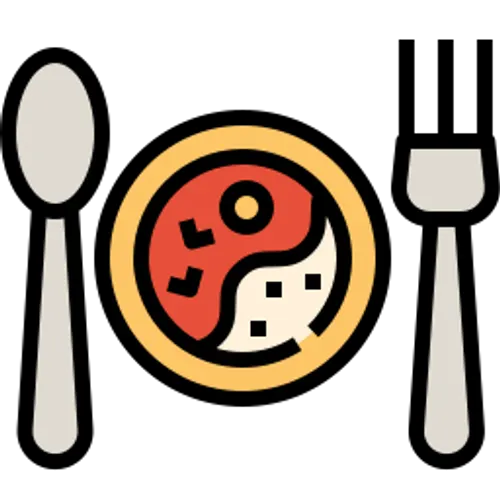
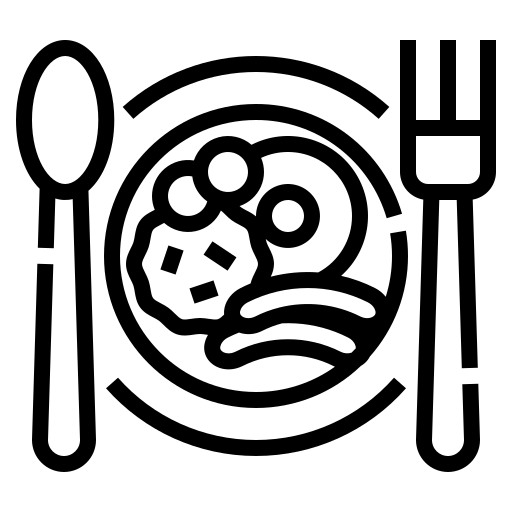
favourive child logic added

diff --git a/src/pages/DoctorDetailPage.tsx b/src/pages/DoctorDetailPage.tsx
@@ -17,11 +17,18 @@ export default function DoctorDetailPage() {
   const [loadingSlots, setLoadingSlots] = useState(false);
   const [errorMsg, setErrorMsg] = useState('');
   const [confirmed, setConfirmed] = useState(false);
+  const [hasFavoriteChild, setHasFavoriteChild] = useState(true); // ✅ Track child presence
   const navigate = useNavigate();
 
   useEffect(() => {
     fetchDoctorInfo();
     fetchAvailability();
+
+    // ✅ Check if favorite child is set
+    const favoriteChildId = localStorage.getItem('favorite_child_id');
+    if (!favoriteChildId) {
+      setHasFavoriteChild(false);
+    }
   }, [doctorId]);
 
   const fetchDoctorInfo = async () => {
@@ -46,8 +53,9 @@ export default function DoctorDetailPage() {
   };
 
   const bookSlot = async () => {
-    if (!selectedSlot) {
-      setErrorMsg(t('Please select a slot.'));
+    const favoriteChildId = localStorage.getItem('favorite_child_id');
+    if (!selectedSlot || !favoriteChildId) {
+      setErrorMsg(t('Please select a slot and ensure child is added.'));
       return;
     }
 
@@ -56,6 +64,7 @@ export default function DoctorDetailPage() {
         parentId: telegramuser?.id,
         expertId: doctorId,
         slotId: selectedSlot,
+        childId: favoriteChildId,
       });
       navigate(`/consultation/${doctorId}`);
     } catch (err) {
@@ -89,6 +98,19 @@ export default function DoctorDetailPage() {
         <h2 className="text-xl font-bold text-emerald-400">
           {t('Doctor Info')}
         </h2>
+
+        {!hasFavoriteChild && (
+          <div className="bg-red-500/10 p-4 rounded border border-red-400 text-white space-y-2">
+            <p>{t('No child selected. Please add a child before booking.')}</p>
+            <Button
+              className="bg-red-500 text-white"
+              onClick={() => navigate('/children')}
+            >
+              ➕ {t('Add Child')}
+            </Button>
+          </div>
+        )}
+
         {doctor ? (
           <div className="flex gap-4 items-center">
             <img
@@ -109,39 +131,43 @@ export default function DoctorDetailPage() {
           <Spinner size="l" />
         )}
 
-        <div>
-          <p className="font-medium mb-2 text-gray-300">
-            📅 {t('Choose a Slot')}
-          </p>
-          {loadingSlots ? (
-            <Spinner size="l" />
-          ) : (
-            <select
-              value={selectedSlot}
-              onChange={(e) => setSelectedSlot(e.target.value)}
-              className="w-full bg-gray-800 border border-gray-600 text-white p-2 rounded"
-            >
-              <option value="">{t('Select a time slot')}</option>
-              {availability
-                .filter((slot) => !slot.isBooked)
-                .map((slot) => (
-                  <option key={slot.id} value={slot.id}>
-                    {slot.startTime} - {slot.endTime}
-                  </option>
-                ))}
-            </select>
-          )}
-        </div>
+        {hasFavoriteChild && (
+          <>
+            <div>
+              <p className="font-medium mb-2 text-gray-300">
+                📅 {t('Choose a Slot')}
+              </p>
+              {loadingSlots ? (
+                <Spinner size="l" />
+              ) : (
+                <select
+                  value={selectedSlot}
+                  onChange={(e) => setSelectedSlot(e.target.value)}
+                  className="w-full bg-gray-800 border border-gray-600 text-white p-2 rounded"
+                >
+                  <option value="">{t('Select a time slot')}</option>
+                  {availability
+                    .filter((slot) => !slot.isBooked)
+                    .map((slot) => (
+                      <option key={slot.id} value={slot.id}>
+                        {slot.startTime} - {slot.endTime}
+                      </option>
+                    ))}
+                </select>
+              )}
+            </div>
 
-        {errorMsg && <p className="text-red-500 text-sm">{errorMsg}</p>}
+            {errorMsg && <p className="text-red-500 text-sm">{errorMsg}</p>}
 
-        {selectedSlot && (
-          <Button 
-            className="w-full mt-4 bg-emerald-600 text-white" 
-            onClick={bookSlot}
-          >
-            {t('Confirm Booking')}
-          </Button>
+            {selectedSlot && (
+              <Button
+                className="w-full mt-4 bg-emerald-600 text-white"
+                onClick={bookSlot}
+              >
+                {t('Confirm Booking')}
+              </Button>
+            )}
+          </>
         )}
       </div>
     </Page>

diff --git a/src/pages/ChildrenListPage.tsx b/src/pages/ChildrenListPage.tsx
@@ -34,8 +34,21 @@ const ChildrenListPage: React.FC = () => {
   }, []);
 
   useEffect(() => {
-    setChildrenData(data);
-  }, [data]);
+  setChildrenData(data);
+
+  // Handle favorite child logic after data is fetched
+  if (data && data.length === 1) {
+    // Only one child — set as favorite
+    const singleChildId = data[0].id;
+    localStorage.setItem(FAVORITE_CHILD_KEY, singleChildId);
+    setFavoriteChildId(singleChildId);
+  } else if (data && data.length === 0) {
+    // No children — remove favorite
+    localStorage.removeItem(FAVORITE_CHILD_KEY);
+    setFavoriteChildId(null);
+  }
+}, [data]);
+
 
   const handleViewChild = (childId: string) => {
     navigate(`/child/${childId}`);
